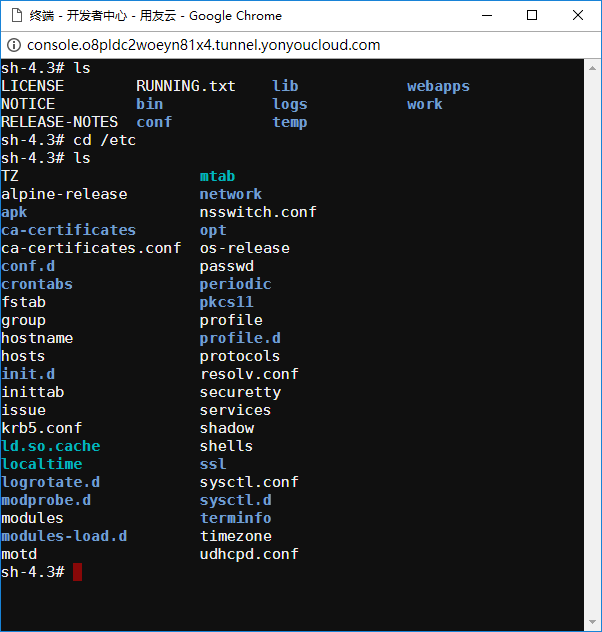
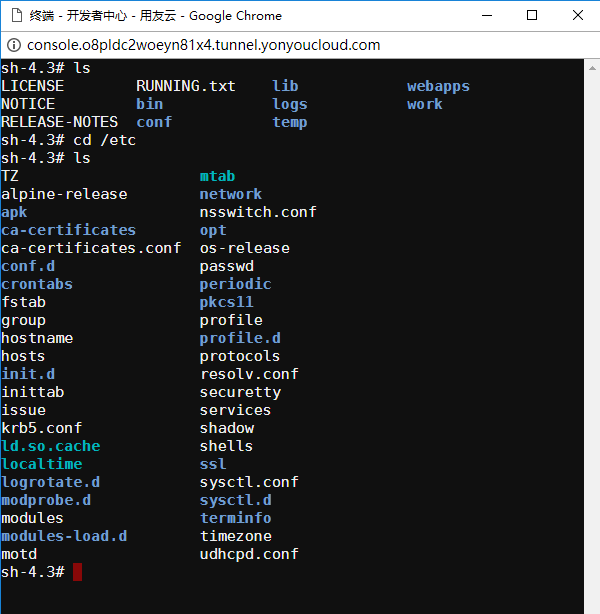
修改 log.md 图片显示问题

Changed region(s): [[0.0, 0.0, 1.0, 1.0], [0.33, 0.2476, 0.54, 0.9283]]

diff --git a/articles/cloud/3-/log.md b/articles/cloud/3-/log.md
@@ -19,7 +19,7 @@
 
 <div align=center>
 
-<img src="/articles/cloud/3-/images/log-detail.png"/>
+<img src="/articles/cloud/3-/images/log-detail.jpg"/>
 
 </div>
 
